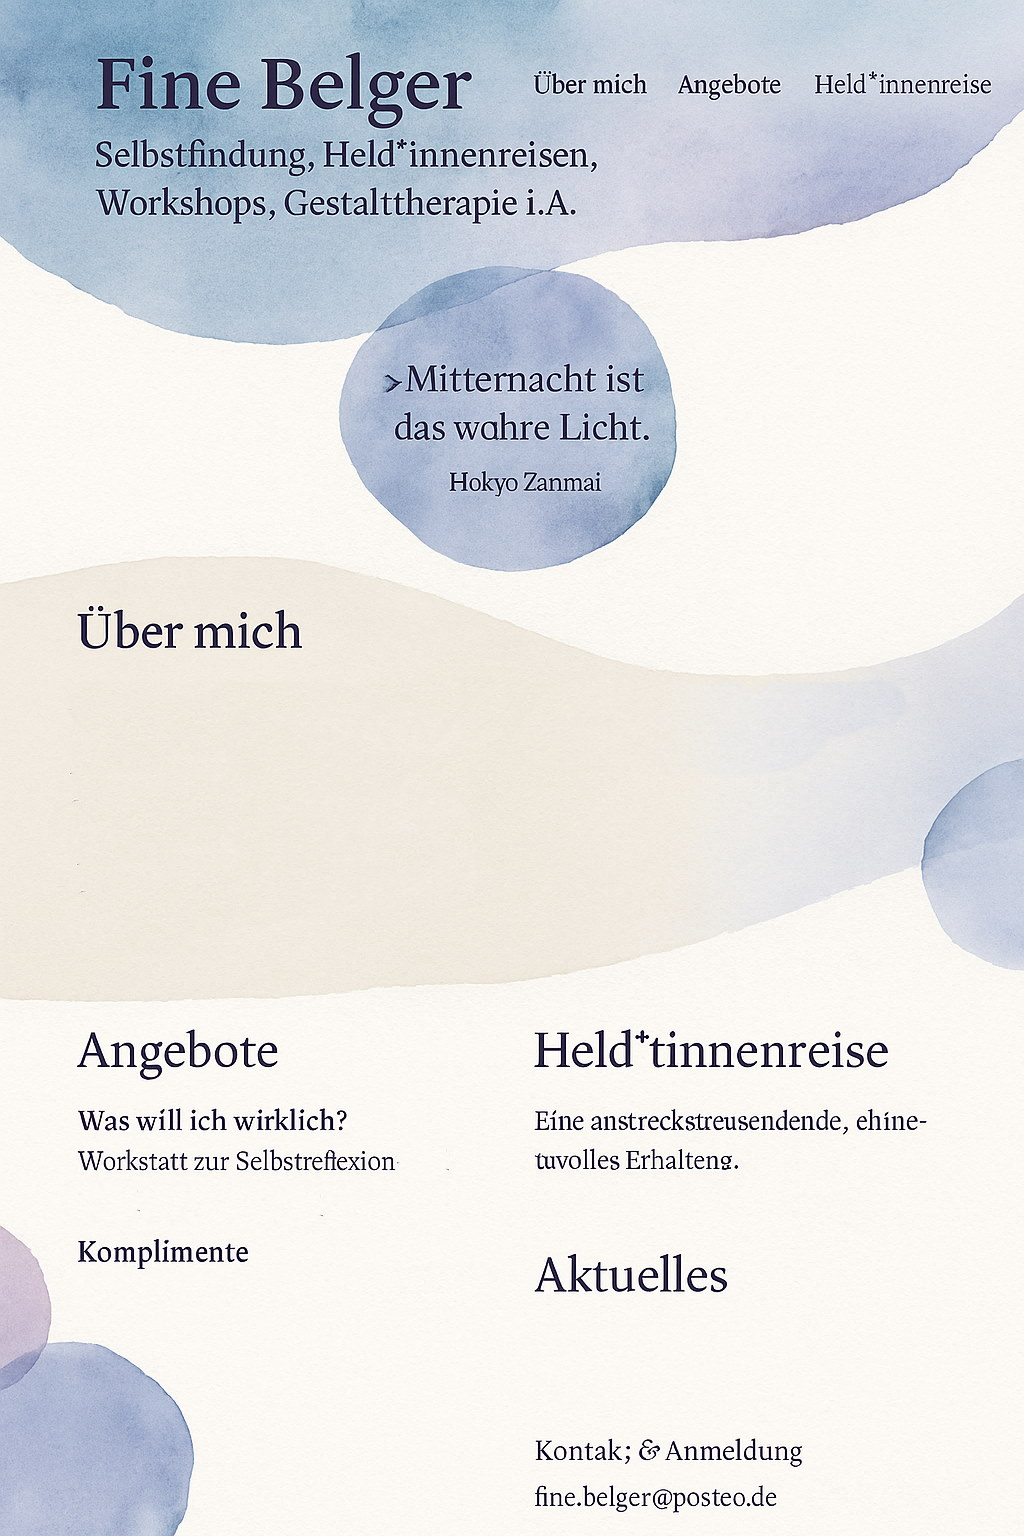
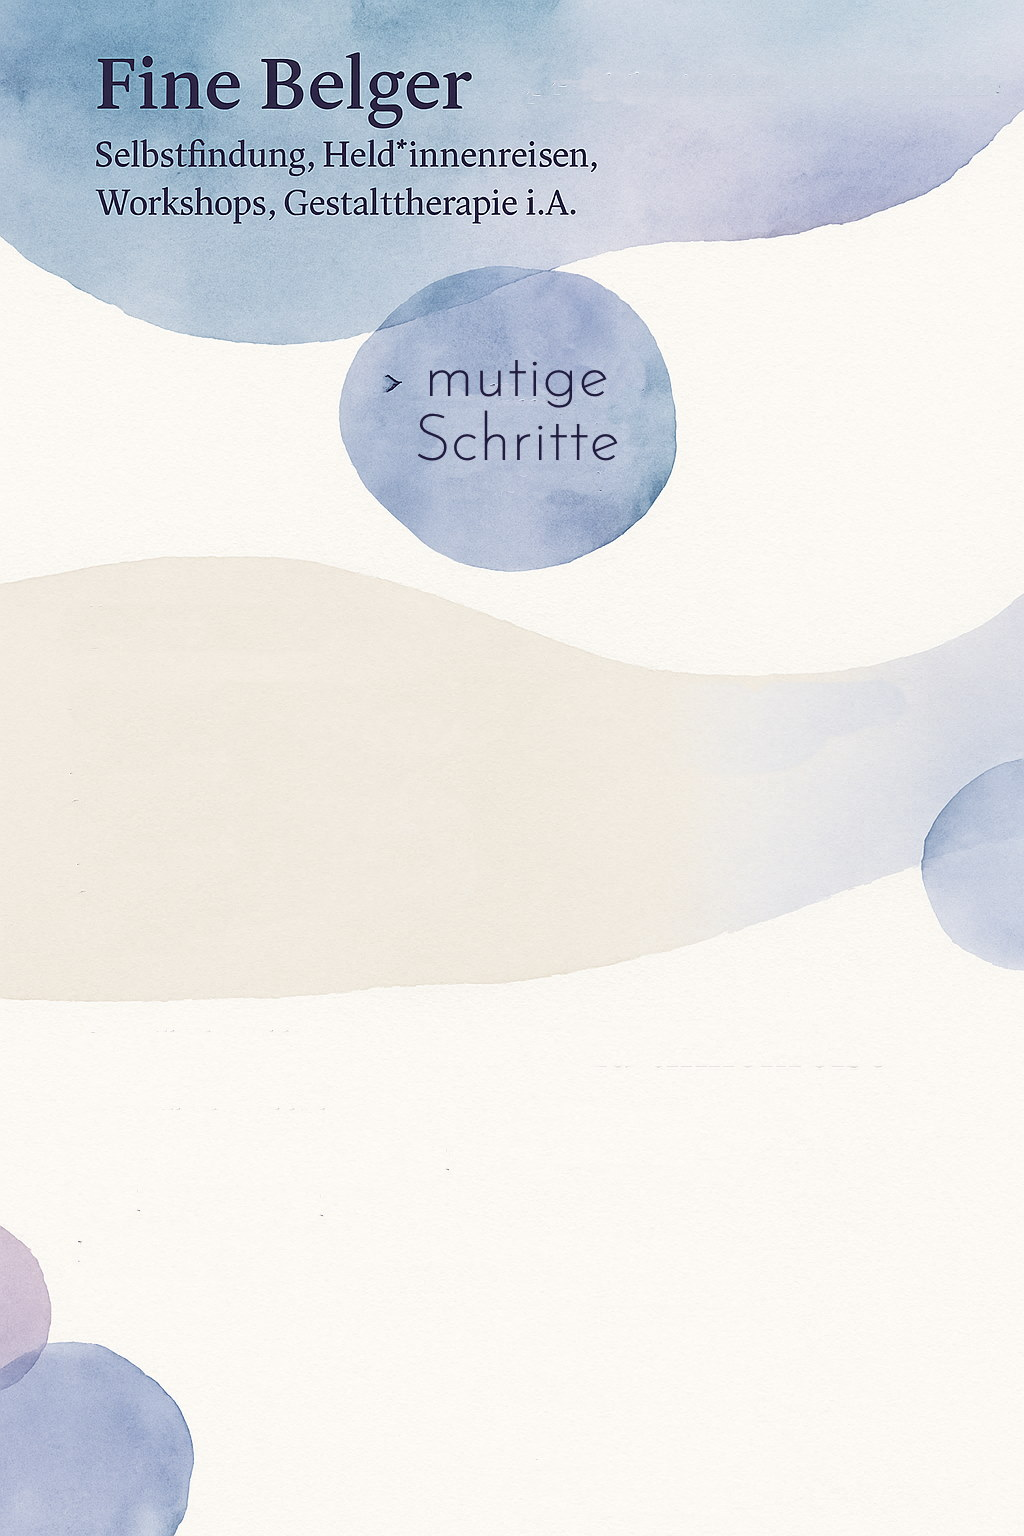
Add files via upload

diff --git a/pages/index.js b/pages/index.js
@@ -1,10 +1,41 @@
-import Layout from '../components/Layout';
+
+import Link from 'next/link';
 
 export default function Home() {
   return (
-    <Layout>
-      <h1 className="text-2xl font-bold">Willkommen bei Mutige Schritte</h1>
-      <p>Dies ist die Startseite. Inhalte folgen.</p>
-    </Layout>
+    <div className="startseite">
+      <header className="menu">
+        <nav>
+          <Link href="/">Start</Link>
+          <Link href="/heldenreise">Held*innenreise</Link>
+          <Link href="/angebote">Angebote</Link>
+          <Link href="/komplimente">Komplimente</Link>
+          <Link href="/mehr-ueber-mich">Mehr über mich</Link>
+        </nav>
+      </header>
+
+      <div className="ueber-mich">
+        <h2>Über mich</h2>
+        <p className="zitat">„Meine Heldenreise hat mir deutlich gemacht, weshalb ich in meinem Leben bisher so viele unterschiedliche Dinge lernen wollte. Ich habe während meiner Reise das letzte Puzzleteil gefunden, welches mir noch gefehlt hatte, um alles miteinander zu verbinden. Die Heldenreise ist für mich, mein inneres Strahlen in Verbindung mit anderen zu bringen und die Erfahrung, dass Verbindung auch Vertrauen bedeuten kann. Selbsterfahrungsprozesse zu unterstützen bedeutet für mich, deutlich w...
+      </div>
+
+      <div className="angebote">
+        <div className="spalte">
+          <Link href="/heldenreise"><div className="angebot">Held*innenreise</div></Link>
+          <Link href="/aktuelles"><div className="angebot">Aktuelles</div></Link>
+          <Link href="/einzel-sessions"><div className="angebot">Einzel-Sessions Gestalttherapie i.A.</div></Link>
+        </div>
+        <div className="spalte">
+          <Link href="/komplimente"><div className="angebot">Tagesseminare: Komplimente machen</div></Link>
+          <Link href="/was-will-ich"><div className="angebot">Was will ich wirklich?</div></Link>
+        </div>
+      </div>
+
+      <footer>
+        <p>Kontakt & Anmeldung</p>
+        <p>Fine Belger Platzhalter</p>
+        <p>Bald auch mit Anmeldeformular – oder schreibe an <a href="mailto:fine.belger@posteo.de">fine.belger@posteo.de</a></p>
+      </footer>
+    </div>
   );
 }

diff --git a/styles/globals.css b/styles/globals.css
@@ -1,0 +1,47 @@
+
+body {
+  margin: 0;
+  font-family: sans-serif;
+  background-image: url('/pastel-bg.jpg');
+  background-size: cover;
+  background-position: center;
+}
+.menu {
+  display: flex;
+  justify-content: flex-end;
+  background: rgba(255, 255, 255, 0.7);
+  padding: 1rem;
+  gap: 1rem;
+}
+.ueber-mich {
+  margin: 3rem auto;
+  max-width: 600px;
+  background: rgba(255,255,255,0.6);
+  padding: 2rem;
+  border-radius: 1rem;
+}
+.angebote {
+  display: flex;
+  justify-content: center;
+  gap: 3rem;
+  margin-top: 5rem;
+}
+.spalte {
+  display: flex;
+  flex-direction: column;
+  gap: 1rem;
+}
+.angebot {
+  background: white;
+  padding: 1rem;
+  border-radius: 0.5rem;
+  text-align: center;
+  box-shadow: 0 2px 6px rgba(0,0,0,0.2);
+}
+footer {
+  text-align: center;
+  font-size: 0.8rem;
+  margin-top: 6rem;
+  background: rgba(255, 255, 255, 0.6);
+  padding: 2rem;
+}

diff --git a/pages/aktuelles.js b/pages/aktuelles.js
@@ -1,0 +1,1 @@
+export default function Page() { return <div>Inhalt folgt...</div>; }

diff --git a/pages/angebote.js b/pages/angebote.js
@@ -1,0 +1,1 @@
+export default function Page() { return <div>Inhalt folgt...</div>; }

diff --git a/pages/einzel-sessions.js b/pages/einzel-sessions.js
@@ -1,0 +1,1 @@
+export default function Page() { return <div>Inhalt folgt...</div>; }

diff --git a/pages/heldenreise.js b/pages/heldenreise.js
@@ -1,0 +1,1 @@
+export default function Page() { return <div>Inhalt folgt...</div>; }

diff --git a/pages/komplimente.js b/pages/komplimente.js
@@ -1,0 +1,1 @@
+export default function Page() { return <div>Inhalt folgt...</div>; }

diff --git a/pages/mehr-ueber-mich.js b/pages/mehr-ueber-mich.js
@@ -1,0 +1,1 @@
+export default function Page() { return <div>Inhalt folgt...</div>; }

diff --git a/pages/was-will-ich.js b/pages/was-will-ich.js
@@ -1,0 +1,1 @@
+export default function Page() { return <div>Inhalt folgt...</div>; }
